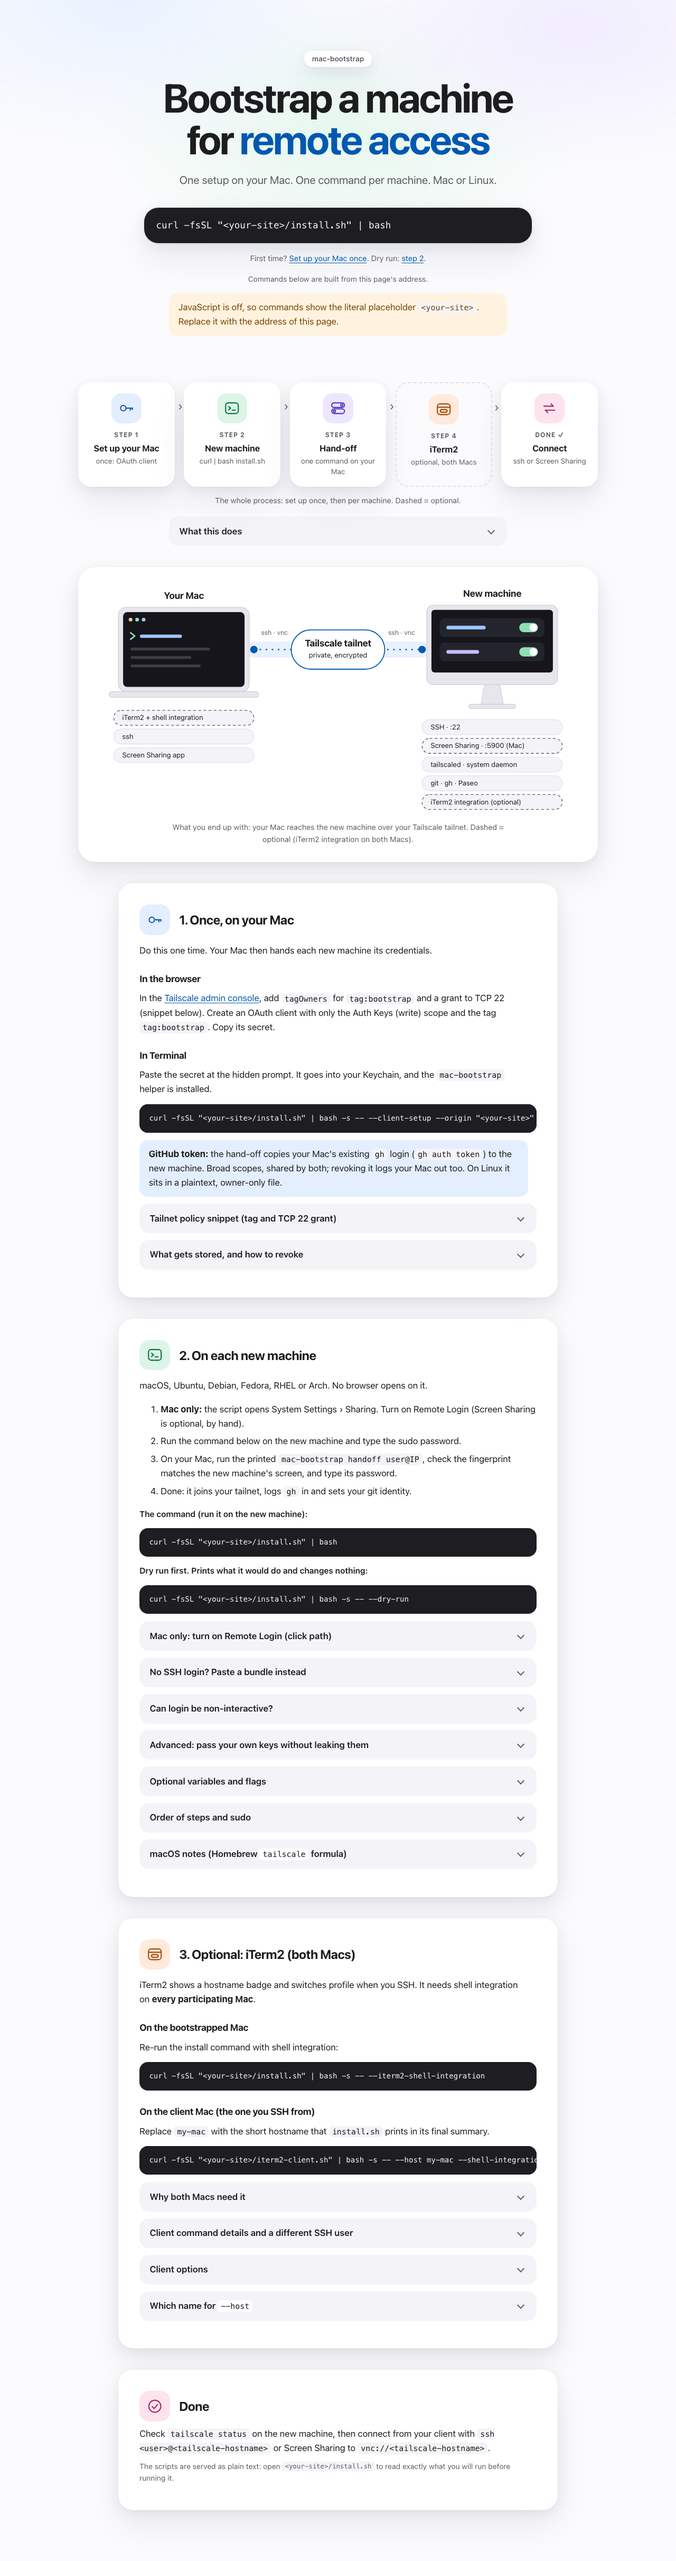
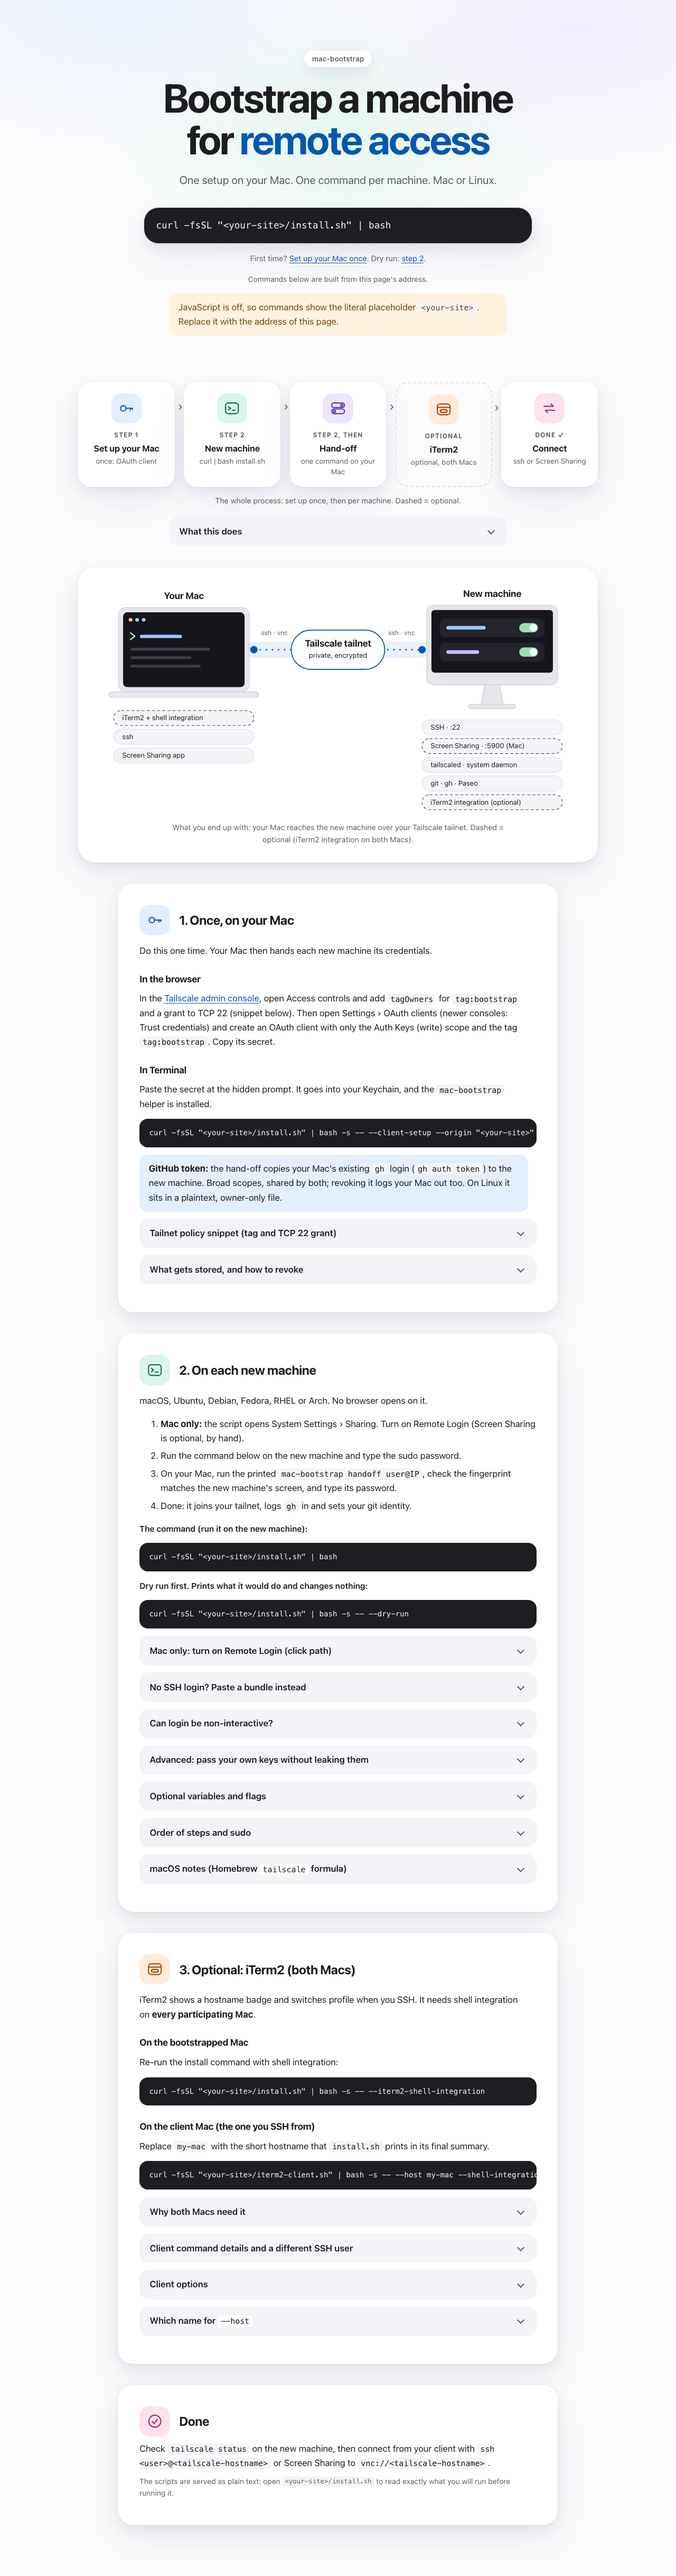
fix(site): consistent step numbering, console root link, reproducible word count

diff --git a/public/index.html b/public/index.html
@@ -79,6 +79,8 @@ figcaption{font-size:.9rem;color:var(--muted);margin:.9rem auto 0;text-align:cen
 .flow .n{font-size:.75rem;font-weight:700;color:var(--muted);text-transform:uppercase;letter-spacing:.08em}
 .flow .n::before{content:"Step " counter(f)}
 .flow li:last-child .n::before{content:"Done \2713"}
+.flow li.opt .n::before{content:"Optional"}
+.flow li.cont .n::before{content:"Step 2, then"}
 .ic{flex:none;display:inline-flex;align-items:center;justify-content:center;width:3.6rem;height:3.6rem;border-radius:1.15rem;background:var(--tint);color:var(--glyph)}
 .ic svg{width:1.9rem;height:1.9rem;fill:none;stroke:currentColor;stroke-width:1.7;stroke-linecap:round;stroke-linejoin:round}
 .t1{--tint:var(--t1);--glyph:var(--g1)}.t2{--tint:var(--t2);--glyph:var(--g2)}.t3{--tint:var(--t3);--glyph:var(--g3)}.t4{--tint:var(--t4);--glyph:var(--g4)}.t5{--tint:var(--t5);--glyph:var(--g5)}
@@ -185,10 +187,10 @@ details{padding:.1rem .95rem}
 </header>
 <main>
 <figure class="flow-fig rv-t">
-<ol class="flow" aria-label="Process: 1 once, set up your Mac with a Tailscale OAuth client and one command, 2 on each new Mac or Linux machine run one install command, 3 hand off from your Mac with one command, 4 optionally set up iTerm2 on both Macs, then connect with ssh or Screen Sharing.">
+<ol class="flow" aria-label="Process: 1 once, set up your Mac with a Tailscale OAuth client and one command, 2 on each new Mac or Linux machine run one install command, then hand off from your Mac with one command (still step 2), optionally set up iTerm2 on both Macs (step 3, optional), then connect with ssh or Screen Sharing.">
 <li class="t1"><span class="ic"><svg aria-hidden="true"><use href="#i-key"/></svg></span><span class="tx"><span class="n"></span><b>Set up your Mac</b><span class="s">once: OAuth client</span></span></li>
 <li class="t2"><span class="ic"><svg aria-hidden="true"><use href="#i-term"/></svg></span><span class="tx"><span class="n"></span><b>New machine</b><span class="s">curl | bash install.sh</span></span></li>
-<li class="t3"><span class="ic"><svg aria-hidden="true"><use href="#i-share"/></svg></span><span class="tx"><span class="n"></span><b>Hand-off</b><span class="s">one command on your Mac</span></span></li>
+<li class="t3 cont"><span class="ic"><svg aria-hidden="true"><use href="#i-share"/></svg></span><span class="tx"><span class="n"></span><b>Hand-off</b><span class="s">one command on your Mac</span></span></li>
 <li class="t4 opt"><span class="ic"><svg aria-hidden="true"><use href="#i-iterm"/></svg></span><span class="tx"><span class="n"></span><b>iTerm2</b><span class="s">optional, both Macs</span></span></li>
 <li class="t5"><span class="ic"><svg aria-hidden="true"><use href="#i-link"/></svg></span><span class="tx"><span class="n"></span><b>Connect</b><span class="s">ssh or Screen Sharing</span></span></li>
 </ol>
@@ -254,7 +256,7 @@ details{padding:.1rem .95rem}
 <div class="sh"><span class="ic t1" aria-hidden="true"><svg aria-hidden="true"><use href="#i-key"/></svg></span><h2 id="setup-h">1. Once, on your Mac</h2></div>
 <p>Do this one time. Your Mac then hands each new machine its credentials.</p>
 <h3>In the browser</h3>
-<p>In the <a href="https://login.tailscale.com/admin/settings/keys" rel="noopener noreferrer">Tailscale admin console</a>, add <code>tagOwners</code> for <code>tag:bootstrap</code> and a grant to TCP 22 (snippet below). Create an OAuth client with only the Auth Keys (write) scope and the tag <code>tag:bootstrap</code>. Copy its secret.</p>
+<p>In the <a href="https://login.tailscale.com/admin" rel="noopener noreferrer">Tailscale admin console</a>, open Access controls and add <code>tagOwners</code> for <code>tag:bootstrap</code> and a grant to TCP 22 (snippet below). Then open Settings &rsaquo; OAuth clients (newer consoles: Trust credentials) and create an OAuth client with only the Auth Keys (write) scope and the tag <code>tag:bootstrap</code>. Copy its secret.</p>
 <h3>In Terminal</h3>
 <p>Paste the secret at the hidden prompt. It goes into your Keychain, and the <code>mac-bootstrap</code> helper is installed.</p>
 <div class="cmd"><pre><code id="c-client">curl -fsSL "&lt;your-site&gt;/install.sh" | bash -s -- --client-setup --origin "&lt;your-site&gt;"</code></pre><button type="button" data-copy="c-client" aria-label="Copy Mac one-time setup command">Copy</button></div>

diff --git a/docs/evidence/unified/page/wordcount.js b/docs/evidence/unified/page/wordcount.js
@@ -1,0 +1,19 @@
+// node wordcount.js <base.html> <new.html>   (pages are served from 127.0.0.1)
+// Method (same for both pages): document.body.innerText, every <details> collapsed (default), light scheme,
+// reduced motion, split on whitespace. code = words in visible <pre>/<code> (nested code inside pre counted once).
+// non-code = visible - code. Budget: non-code <= 334 at 1280 (docs/evidence/apple/wordcount.txt).
+const { chromium } = require('playwright'); const http = require('http'), fs = require('fs');
+const serve = (f, port) => new Promise(r => { const s = http.createServer((q, res) => { res.writeHead(200, {'content-type':'text/html; charset=utf-8'}); res.end(fs.readFileSync(f)); }).listen(port, '127.0.0.1', () => r(s)); });
+(async () => {
+  const [base, nw] = process.argv.slice(2); const s1 = await serve(base, 8881), s2 = await serve(nw, 8882);
+  const br = await chromium.launch(); const out = [];
+  for (const [name, port] of [['BASE', 8881], ['NEW', 8882]]) for (const [w, h] of [[1280, 800], [390, 844]]) {
+    const p = await br.newPage({ viewport: { width: w, height: h }, reducedMotion: 'reduce', colorScheme: 'light' }); await p.goto(`http://127.0.0.1:${port}/`);
+    const r = await p.evaluate(() => { const W = t => t.split(/\s+/).filter(Boolean).length;
+      const code = [...document.querySelectorAll('pre, code')].filter(e => !(e.tagName === 'CODE' && e.closest('pre')) && e.getClientRects().length).reduce((a, e) => a + W(e.innerText), 0);
+      const vis = W(document.body.innerText); return { vis, code, non: vis - code }; });
+    out.push(`${name} ${w}x${h}: visible ${r.vis} code ${r.code} non-code ${r.non}` + (w === 1280 ? `  (limit 334: ${r.non <= 334 ? 'met' : 'EXCEEDED'})` : ''));
+    await p.close();
+  }
+  console.log(out.join('\n')); await br.close(); s1.close(); s2.close();
+})();

diff --git a/docs/evidence/unified/page/README.md b/docs/evidence/unified/page/README.md
@@ -6,5 +6,6 @@ Candidate page: `public/index.html` at the commit that adds this directory. Serv
 - `iterm-diff.txt`: iTerm2 commands, iTerm2 section and read-the-script paragraph vs base 33d3e07.
 - `after-{1280,390}-{light,dark}.png` (full page), `after-first-*` (first viewport), `after-1280-light-nojs.png` (JS disabled).
 
-Word budget: the earlier `docs/evidence/apple/wordcount.txt` script (`/tmp/wc/measure.js`) no longer exists, so its exact "code" split could not be reproduced. Same total method (`document.body.innerText`, details collapsed, light, reduced motion) gives visible words 617 (base 33d3e07) -> 585 (new), -32. Counting only visible `<pre>`/`<code>` text, non-code words fall 554 -> 518 (-36). The recorded non-code figure at base was 315 (limit 334); applying the same -36 gives about 279, inside the budget.
+Word budget: `wordcount.js` (committed) is the measure; its output is `wordcount.txt`. Same method on the base page (`git show 00590e9:public/index.html`) and on this one: `document.body.innerText`, details collapsed, light, reduced motion, 1280 and 390. Base: visible 617, non-code 554. New: visible 600, non-code 533 (-17 visible, -21 non-code). The limit of 334 from `docs/evidence/apple/wordcount.txt` cannot be applied to this method: that run's "code" count (302 of 617 visible) came from `/tmp/wc/measure.js`, which no longer exists and was not reproducible, and the base page already scores 554 here. The reproducible claim is therefore "no growth against the base": visible and non-code words both fall. If the recorded offset (visible - 302) were constant, new non-code would be about 298 (<= 334), but that is an inference, not a measurement. `checks-raw.txt` repeats a coarser word count from an earlier method; `wordcount.txt` is authoritative.
+Unverified label wording: "Access controls", "Settings > OAuth clients" and "Trust credentials" (newer consoles) in step 1 are not checked against the live Tailscale console; the page links only the console root https://login.tailscale.com/admin.
 Notes: `--origin` is https-only in the script; on this http://127.0.0.1 server the page still builds the command from the serving origin as required. Static commands with no origin by design: c-policy, c-nc, c-bundle, c-read1, c-read2, c-unset (the printed `mac-bootstrap handoff user@IP` has no Copy button because it contains placeholders).
